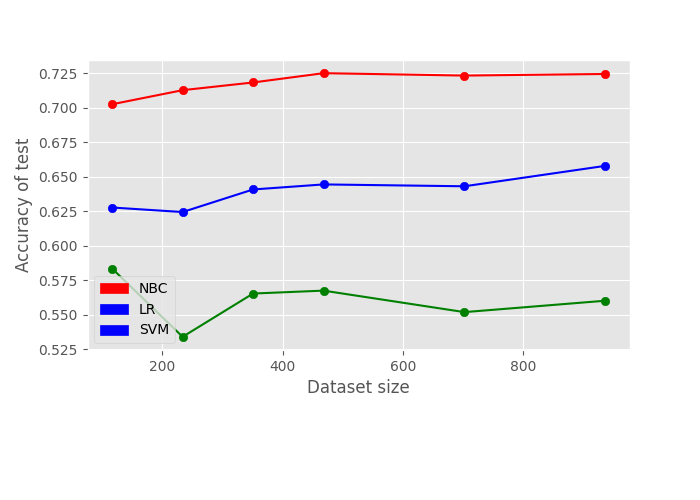
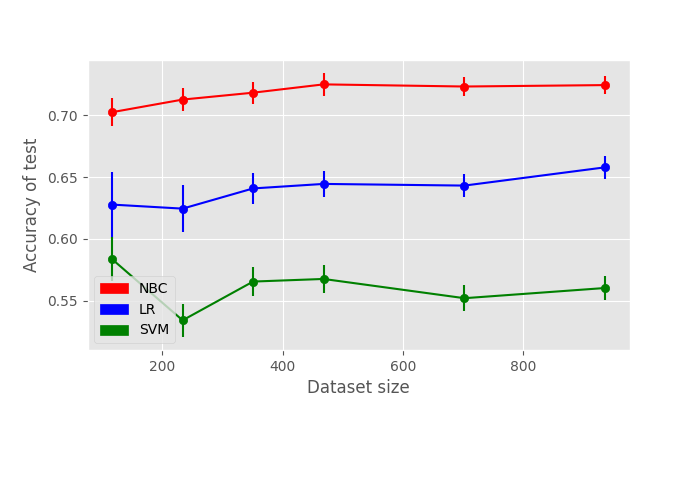
Completed part C as well

diff --git a/lr_svm.py b/lr_svm.py
@@ -30,10 +30,9 @@ class SupportVectorMachine(object):
     tol = 1e - 6, whichever is reached rst. Print the classier's accuracy on both the training
     dataset and the testing dataset (rounded to two decimals).
     """
-    def __init__(self, learning_rate = 0.5, numIterations = 500, penalty = None, lambdaValue = 0.01, tol = 10**-6):
+    def __init__(self, learning_rate = 0.5, numIterations = 500, lambdaValue = 0.01, tol = 10**-6):
         self.learningRate = learning_rate
         self.numIterations = numIterations
-        self.penalty = penalty
         self.lambdaValue = lambdaValue
         self.tol = tol
     
@@ -81,39 +80,30 @@ class LogisticRegression(object):
     tol = 1e - 6, whichever is reached rst. Print the classier's accuracy on both the training
     dataset and the testing dataset (rounded to two decimals).
     """
-    def __init__(self, learningRate, numIterations = 10, penalty = None, lambdaValue = 0.01):
+    def __init__(self, learningRate, numIterations = 10, lambdaValue = 0.01):
         
         self.learningRate = learningRate
         self.numIterations = numIterations
-        self.penalty = penalty
         self.lambdaValue = lambdaValue
         
-    def train(self, X_train, y_train, tol = 10 ** -4):
+    def lrTrain(self, X_train, y_train, tol = 10 ** -4):
         import copy
         
         # +1 for the bias term, w0 in weight vector
         
-        LRobj = LogisticRegression(learningRate = 0.001, numIterations = 5, penalty = 'L2', lambdaValue= 0.01)
-
-
+        LRobj = LogisticRegression(learningRate = 0.001, numIterations = 5, lambdaValue= 0.01)
 
         self.weights = np.zeros(np.shape(X_train)[1] + 1) 
-        X_train_copy = X_train[:]
+        # X_train_copy = X_train[:]
         X_train = np.c_[np.ones([np.shape(X_train)[0], 1]), X_train]
         self.costs = []
-        for i in range(self.numIterations):
+        for _ in range(self.numIterations):
             z = np.dot(X_train, self.weights)
-            errors = - y_train + logistic_func(z) # using notation in slides - yi + yi^
+            errors = - y_train + sigmoid(z) # using notation in slides - yi + yi^
 
-            if self.penalty is not None:    
-                # Not producing single number but a list of numbers 
-                weightAdj = np.true_divide(self.weights, self.lambdaValue, dtype=np.float64)
-                prod = np.dot(errors, X_train) + weightAdj
-                delta_w = self.learningRate * prod
-            else:
-                delta_w = self.learningRate * np.dot(errors, X_train)
-            
-            self.iterationsPerformed = i
+            weightAdj = self.weights * self.lambdaValue
+            prod = np.dot(errors, X_train) + weightAdj
+            delta_w = self.learningRate * prod
 
             # Find L2 norm and update only if greater than tolerance
 
@@ -121,7 +111,7 @@ class LogisticRegression(object):
                 #weight update
                 self.weights -= delta_w   
                 LRobj.weights = self.weights 
-                pred, prob = LRobj.predict(X_train_copy, 0.5)                       
+                # pred, prob = LRobj.predict(X_train_copy, 0.5)                       
 
             else:
                 break
@@ -130,31 +120,18 @@ class LogisticRegression(object):
                     
     def predict(self, X_test, pi = 0.5):
         z = self.weights[0] + np.dot(X_test, self.weights[1:])     
-        probs = np.array([logistic_func(i) for i in z])
+        probs = np.array([sigmoid(i) for i in z])
         predictions = np.where(probs >= pi, 1, 0)
         return predictions, probs
         
-    def performanceEval(self, predictions, y_test):
-        count = 0
-        diff = np.subtract(predictions, y_test)
-        return np.sum(np.abs(diff))/ len(predictions)
-        
 
-def logistic_func(z):   
+def sigmoid(z):   
     return 1 / (1 + np.exp(-z))  
-    
-def logLiklihood(z, y):
-    return -1 * np.sum((y * np.log(logistic_func(z))) + ((1 - y) * np.log(1 - logistic_func(z))))
 
 def replaceZeroes(data):
     min_nonzero = np.min(data[np.nonzero(data)])
     data[data == 0] = min_nonzero
     return data
-
-def reg_logLiklihood(x, weights, y, lambdaValue):
-    z = np.dot(x, weights) 
-    reg_term = (1 / (2 * lambdaValue)) * np.dot(weights.T, weights)
-    return -1 * np.sum((y * np.log(logistic_func(z))) + ((1 - y) * np.log(1 - logistic_func(z)))) + reg_term
 
 def svm(trainingSet, testSet):
     Y = trainingSet.loc[:, 'decision']
@@ -170,7 +147,7 @@ def svm(trainingSet, testSet):
     X_test = testSet.drop(['decision'], axis=1)
 
     X_test.insert(loc=len(X_test.columns), column='intercept', value=1)
-    svm = SupportVectorMachine(learning_rate = 0.5, numIterations = 500, penalty = 'L2', lambdaValue = 0.01)
+    svm = SupportVectorMachine(learning_rate = 0.5, numIterations = 500, lambdaValue = 0.01)
     W = svm.svmTrain(X_train.to_numpy(), y_train)
 
 
@@ -208,8 +185,8 @@ def lr(trainingSet, testSet):
     # CONSIDER SHUFFLING DATASET EVERY EPOCH ##############################
     # RESET ALL C WITH LAMBDA AND FLIP THE SIGNS ##########################
     #######################################################################
-    LR = LogisticRegression(learningRate = 0.01, numIterations = 500, penalty = 'L2', lambdaValue= 100)  
-    LR.train(X_train, y_train, tol = 10 ** -6)
+    LR = LogisticRegression(learningRate = 0.01, numIterations = 500, lambdaValue= 0.01)  
+    LR.lrTrain(X_train, y_train, tol = 10 ** -6)
 
     y_test = testSet['decision']
     X_test = testSet.drop(['decision'], axis=1)
@@ -236,7 +213,7 @@ def svm_crossValidate(trainingSet, testSet):
     X_test = testSet.drop(['decision'], axis=1)
 
     X_test.insert(loc=len(X_test.columns), column='intercept', value=1)
-    svm = SupportVectorMachine(learning_rate = 0.5, numIterations = 500, penalty = 'L2', lambdaValue = 0.01)
+    svm = SupportVectorMachine(learning_rate = 0.5, numIterations = 500, lambdaValue = 0.01)
     W = svm.svmTrain(X_train.to_numpy(), y_train)
 
 
@@ -245,14 +222,12 @@ def svm_crossValidate(trainingSet, testSet):
     for i in range(X_train.shape[0]):
         yp = np.sign(np.dot(X_train.to_numpy()[i], W))
         y_train_predicted = np.append(y_train_predicted, yp)
-    # print('Training Accuracy SVM: %.5f'%svmPerformance(y_train, y_train_predicted))
-
 
     y_test_predicted = np.array([])
     for i in range(X_test.shape[0]):
         yp = np.sign(np.dot(X_test.to_numpy()[i], W))
         y_test_predicted = np.append(y_test_predicted, yp)
-    # print('Test Accuracy SVM: %.5f'%svmPerformance(y_test, y_test_predicted))
+
     return svmPerformance(y_test, y_test_predicted)
 
 def lr_crossValidate(trainingSet, testSet):
@@ -275,19 +250,14 @@ def lr_crossValidate(trainingSet, testSet):
     # CONSIDER SHUFFLING DATASET EVERY EPOCH ##############################
     # RESET ALL C WITH LAMBDA AND FLIP THE SIGNS ##########################
     #######################################################################
-    LR = LogisticRegression(learningRate = 0.01, numIterations = 500, penalty = 'L2', lambdaValue= 100)  
-    LR.train(X_train, y_train, tol = 10 ** -6)
+    LR = LogisticRegression(learningRate = 0.01, numIterations = 500, lambdaValue= 0.01)  
+    LR.lrTrain(X_train, y_train, tol = 10 ** -6)
 
     y_test = testSet['decision']
     X_test = testSet.drop(['decision'], axis=1)
 
-    # predictions, probs = LR.predict(X_train, 0.5)
-    # performance = lrPerformance(predictions, y_train)
-    # print('Training Accuracy LR: %.5f'%performance)
-
     predictions, probs = LR.predict(X_test, 0.5)
-    performance = lrPerformance(predictions, y_test)
-    # print('Test Accuracy LR: %.5f'%performance)
+
     return lrPerformance(predictions, y_test)
 
 def lrPerformance(prediction, actual):

diff --git a/hypothesisTests.py b/hypothesisTests.py
@@ -1,0 +1,44 @@
+
+""" 
+    Formulate a hypothesis about the performance difference between at least two of the models
+    (Any pair of the 3 models can be used to form your hypothesis).
+    (v) Test your hypothesis and discuss whether the observed data support your hypothesis (i.e., are
+    the observed differences signicant).
+"""
+
+# Here we will go ahead and compare SVM with NBC in terms 
+# of accuracy (performance difference) while retaining the hyper parameters from before
+
+# Let us come up with a null hypothesis and an alternate hypothesis
+# Null Hypothesis - SVM accuracy = LR accuracy
+# Alternative Hypothesis - SVM accuracy = LR accuracy
+
+# Note, this is being done for each t_frac value provided.
+
+from scipy.stats import ttest_rel
+
+accuracyNBC = [[0.7024999999999999, 0.011114153511807532], 
+[0.7126923076923076, 0.00938256598051398], [0.7182692307692308, 0.009000534172181973],
+[0.725, 0.009060937684145957], [0.7232692307692308, 0.007340261430618292],
+[0.7244230769230768, 0.007473077912823088]]
+
+accuracySVM = [[0.5834615384615385, 0.01776157011024264],
+[0.5340384615384615, 0.013376240748732332], [0.5653846153846154, 0.011760680654938963],
+[0.5675, 0.011398023549212485], [0.551923076923077, 0.01071414482860317],
+[0.5601923076923077, 0.010103202667570909]]
+
+accuracyLR = [[0.6276923076923075, 0.026723435629318323],
+[0.6244230769230767, 0.019047297871693444], [0.6407692307692308, 0.012825063294998202],
+[0.6444230769230769, 0.010663804010592618], [0.6430769230769231, 0.009464977486321241],
+[0.6578846153846154, 0.009160186879569598]]
+
+accuracyForNBC = [x[0] for x in accuracyNBC]
+accuracyForLR = [x[0] for x in accuracyLR]
+accuracyForSVM = [x[0] for x in accuracySVM]
+# import pdb; pdb.set_trace()
+pvalue = ttest_rel(accuracyForLR, accuracyForSVM).pvalue
+# The significance is taken as 0.01 or 99%
+if pvalue < 0.01:
+    print("Rejecting Null Hypothesis; Accepting Alternative Hypothesis")
+else:
+    print("Accepting Null Hypothesis")

diff --git a/cv.py b/cv.py
@@ -223,20 +223,25 @@ def sampling():
 
 def plot(accuracyNBC, accuracyLR, accuracySVM, fracArr, size):
     # import pdb; pdb.set_trace()
-    accuracyNBC = [ x[0] for x in accuracyNBC]
-    accuracyLR = [ x[0] for x in accuracyLR]
-    accuracySVM = [ x[0] for x in accuracySVM]
+    accuracyForNBC = [ x[0] for x in accuracyNBC]
+    accuracyForLR = [ x[0] for x in accuracyLR]
+    accuracyForSVM = [ x[0] for x in accuracySVM]
+
+    standardErrorNBC = [ x[1] for x in accuracyNBC]
+    standardErrorLR = [ x[1] for x in accuracyLR]
+    standardErrorSVM = [ x[1] for x in accuracySVM]
+
     fig = plt.figure()
     fig.set_figwidth(7)
     fig.set_figheight(5)
     fig.subplots_adjust(bottom=0.3)
-    plt.plot(numpy.multiply(fracArr,size), accuracyNBC, color='red')
-    plt.plot(numpy.multiply(fracArr,size), accuracyLR, color='blue')
-    plt.plot(numpy.multiply(fracArr,size), accuracySVM, color='green')
+    plt.errorbar(numpy.multiply(fracArr,size), accuracyForNBC, yerr=standardErrorNBC, color='red')
+    plt.errorbar(numpy.multiply(fracArr,size), accuracyForLR, yerr=standardErrorLR, color='blue')
+    plt.errorbar(numpy.multiply(fracArr,size), accuracyForSVM, yerr=standardErrorSVM, color='green')
 
-    plt.scatter(numpy.multiply(fracArr,size), accuracyNBC, color='red')
-    plt.scatter(numpy.multiply(fracArr,size), accuracyLR, color='blue')
-    plt.scatter(numpy.multiply(fracArr,size), accuracySVM, color='green')
+    plt.scatter(numpy.multiply(fracArr,size), accuracyForNBC, color='red')
+    plt.scatter(numpy.multiply(fracArr,size), accuracyForLR, color='blue')
+    plt.scatter(numpy.multiply(fracArr,size), accuracyForSVM, color='green')
 
     plt.xlabel('Dataset size')
     plt.ylabel('Accuracy of test')
